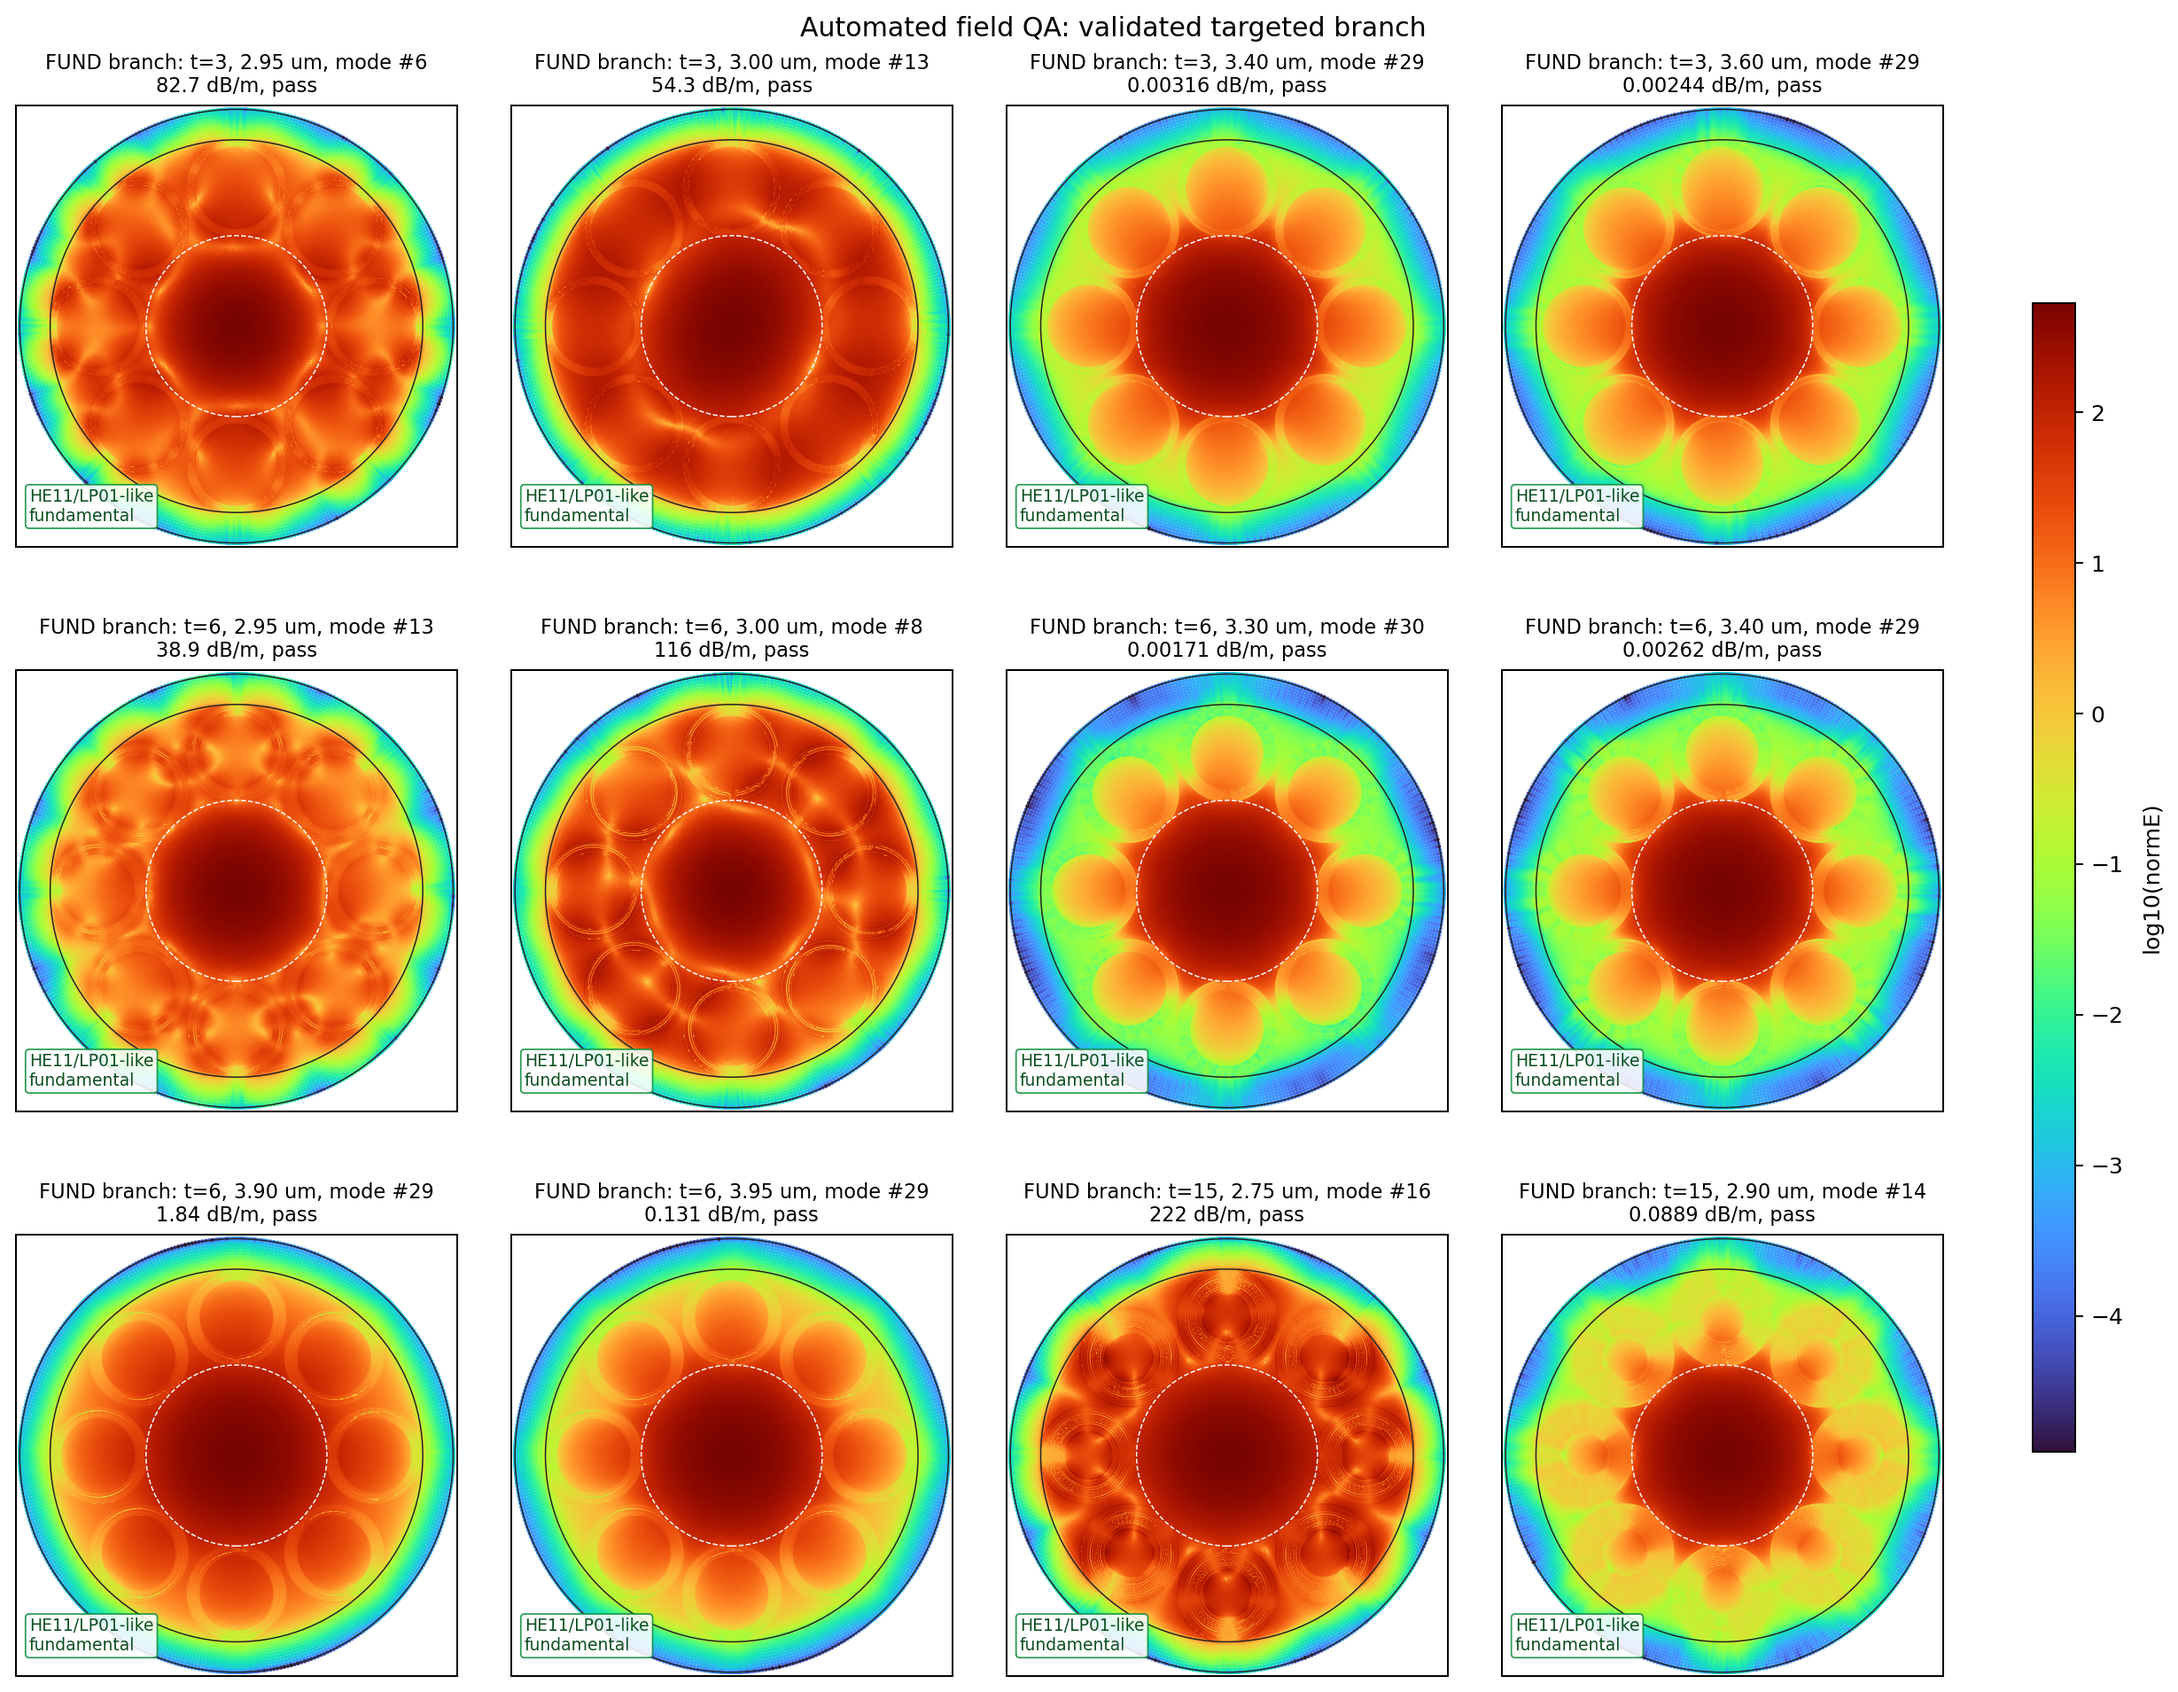
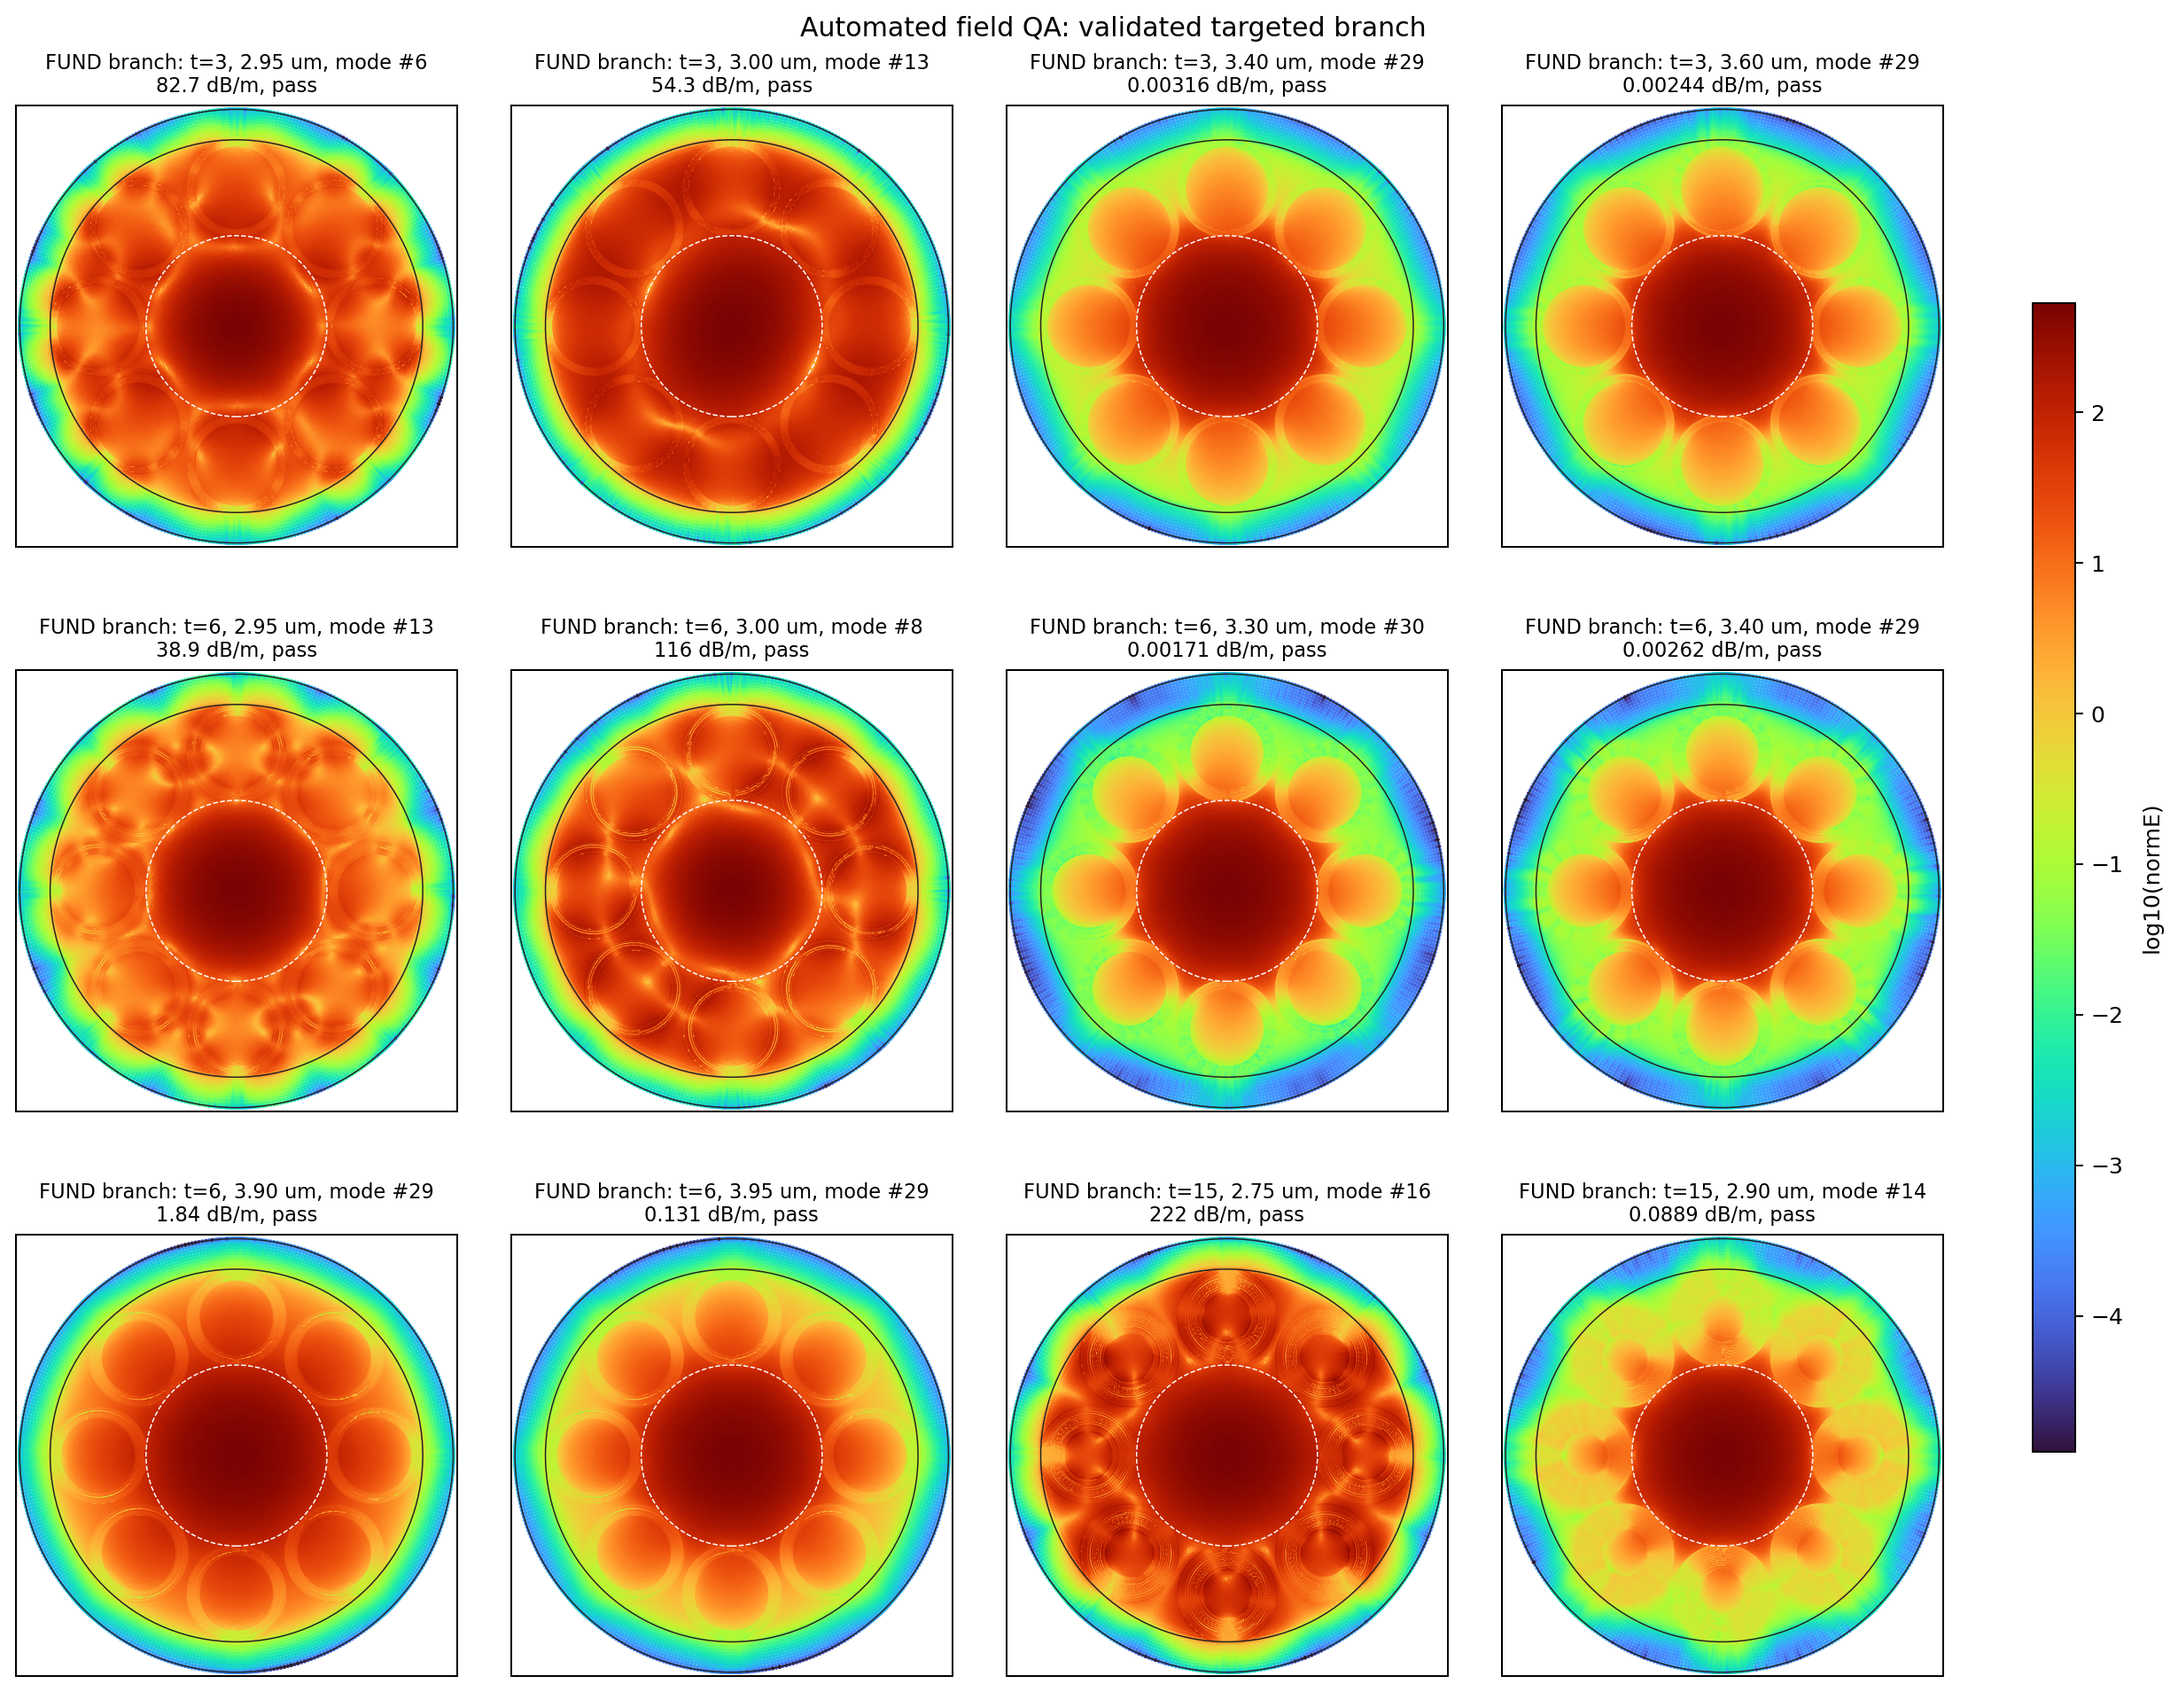
Keep mode-field figures annotation-free

diff --git a/README.md b/README.md
@@ -21,7 +21,7 @@ This repository intentionally contains only generated PNG/SVG visualization arti
 
 ## Notes
 
-The field-validation contact sheet is a visual QA panel, not a loss spectrum. Each panel is a selected member of the tracked HE11/LP01-like fundamental branch. The green badge marks the fundamental-core branch, while `mode #` is only COMSOL's local eigenmode ordering at that wavelength and is not the ARROW order.
+The field-validation contact sheet is a visual QA panel, not a loss spectrum. Each panel is a selected member of the tracked HE11/LP01-like fundamental branch. The `FUND branch` title marks the fundamental-core branch, while `mode #` is only COMSOL's local eigenmode ordering at that wavelength and is not the ARROW order. The field region intentionally has no extra label overlay, so annotations do not obscure the mode shape.
 
 The fundamental-mode examples figure shows the lowest-loss representative of that tracked branch for each wall thickness.
 
